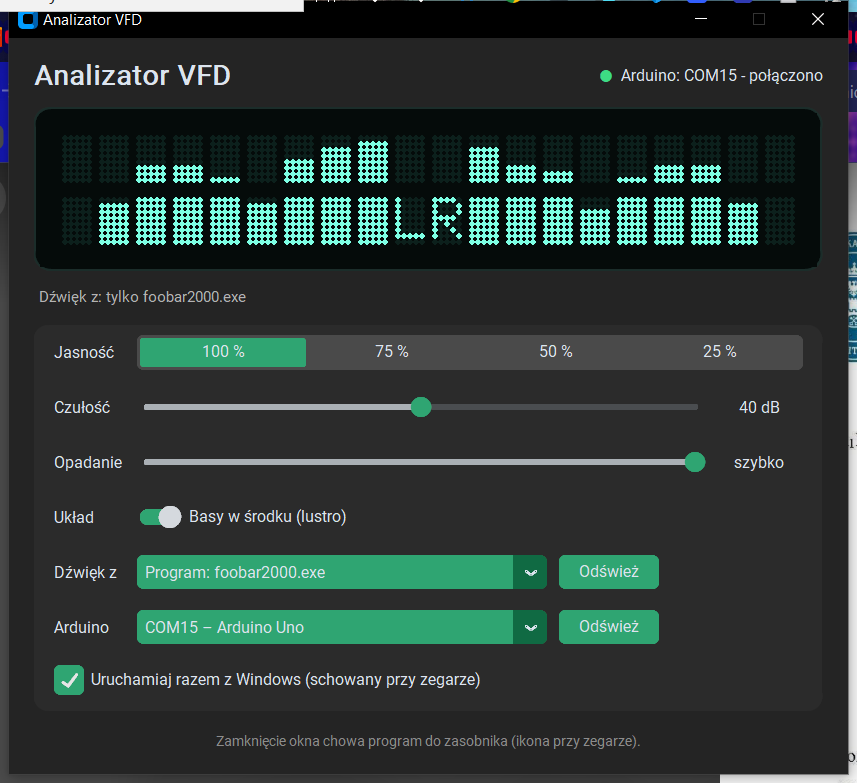
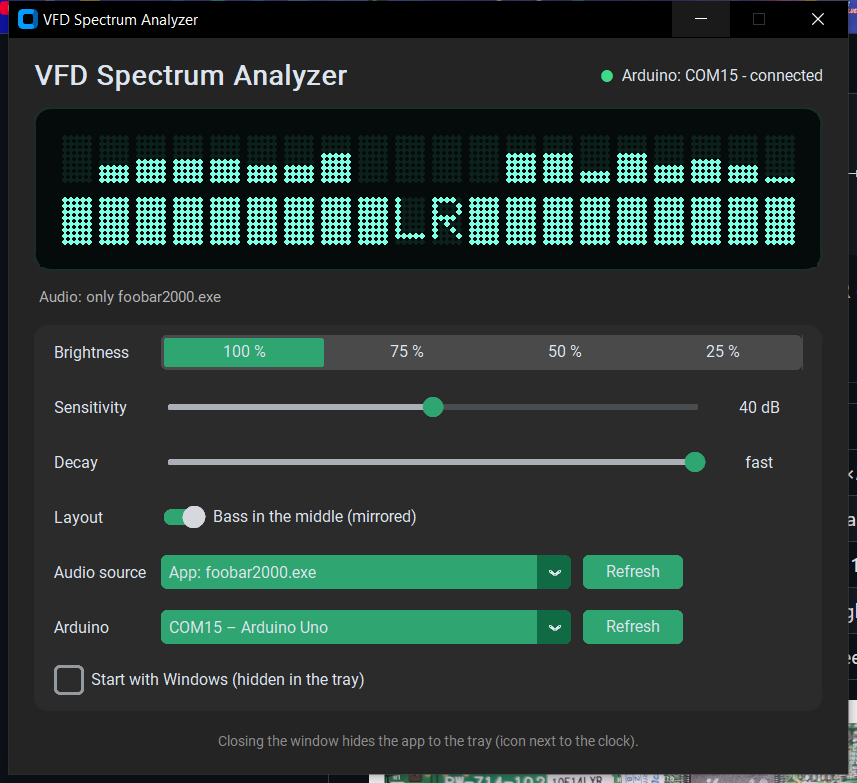
English UI, single-module stand preview, README: modular stands, drop removed files

diff --git a/pc/widmo_gui.py b/pc/widmo_gui.py
@@ -1,8 +1,8 @@
-"""Analizator VFD - okno programu.
+"""VFD Spectrum Analyzer - GUI.
 
-Instalacja:  pip install pyaudiowpatch pyserial numpy customtkinter pystray pillow
-Uruchomienie: pythonw widmo_gui.py        (--min = start schowany w zasobniku)
-Zamknięcie okna chowa program do zasobnika (ikona przy zegarze) - tam jest „Zakończ”.
+Install: pip install pyaudiowpatch pyserial numpy customtkinter pystray pillow
+Run:     pythonw widmo_gui.py        (--min = start hidden in the tray)
+Closing the window hides the app to the tray; "Quit" is in the tray icon menu.
 """
 import json, os, socket, sys
 import customtkinter as ctk
@@ -10,7 +10,7 @@ import pystray
 from PIL import Image, ImageDraw
 from silnik import APP, AUTO, DOMYSLNE, JASNOSCI, USTAWIENIA, Silnik, kolumny, lista_portow
 
-PREFIKS_APP = "Program: "     # na liście "Dźwięk z"; w ustawieniach zapisane jako "app:nazwa.exe"
+PREFIKS_APP = "App: "     # na liście "Dźwięk z"; w ustawieniach zapisane jako "app:nazwa.exe"
 
 
 def audio_na_liste(u):
@@ -23,7 +23,7 @@ def audio_z_listy(v):
 KATALOG = os.path.dirname(os.path.abspath(__file__))
 PLIK_USTAWIEN = os.path.join(KATALOG, "ustawienia.json")
 AUTOSTART = os.path.join(os.environ["APPDATA"], r"Microsoft\Windows\Start Menu\Programs\Startup",
-                         "Analizator VFD.vbs")
+                         "VFD Spectrum Analyzer.vbs")
 
 # wygląd VFD
 TLO = "#050b0a"
@@ -107,13 +107,13 @@ class Okno(ctk.CTk):
     def __init__(self, silnik, schowane):
         super().__init__()
         self.s = silnik
-        self.title("Analizator VFD")
+        self.title("VFD Spectrum Analyzer")
         self.resizable(False, False)
         self.protocol("WM_DELETE_WINDOW", self.schowaj)
 
         naglowek = ctk.CTkFrame(self, fg_color="transparent")
         naglowek.pack(fill="x", padx=20, pady=(16, 6))
-        ctk.CTkLabel(naglowek, text="Analizator VFD", font=ctk.CTkFont(size=22, weight="bold")).pack(side="left")
+        ctk.CTkLabel(naglowek, text="VFD Spectrum Analyzer", font=ctk.CTkFont(size=22, weight="bold")).pack(side="left")
         self.lbl_port = ctk.CTkLabel(naglowek, text="", font=ctk.CTkFont(size=13))
         self.lbl_port.pack(side="right")
         self.kropka_port = ctk.CTkLabel(naglowek, text="●", font=ctk.CTkFont(size=16))
@@ -135,13 +135,13 @@ class Okno(ctk.CTk):
         def etykieta(tekst):
             ctk.CTkLabel(panel, text=tekst, anchor="w").grid(row=r, column=0, sticky="w", padx=(16, 12), pady=8)
 
-        etykieta("Jasność")
+        etykieta("Brightness")
         self.jas = ctk.CTkSegmentedButton(panel, values=[f"{p} %" for p in JASNOSCI], command=self.zmien_jasnosc)
         self.jas.set(f"{JASNOSCI[self.s.u['jasnosc']]} %")
         self.jas.grid(row=r, column=1, columnspan=2, sticky="ew", padx=(0, 16))
         r += 1
 
-        etykieta("Czułość")
+        etykieta("Sensitivity")
         self.czul = ctk.CTkSlider(panel, from_=60, to=20, number_of_steps=40, command=self.zmien_czulosc)
         self.czul.set(self.s.u["zakres_db"])
         self.czul.grid(row=r, column=1, sticky="ew")
@@ -149,7 +149,7 @@ class Okno(ctk.CTk):
         self.lbl_czul.grid(row=r, column=2, padx=(8, 16))
         r += 1
 
-        etykieta("Opadanie")
+        etykieta("Decay")
         self.spad = ctk.CTkSlider(panel, from_=0.15, to=1.5, number_of_steps=27, command=self.zmien_spadek)
         self.spad.set(self.s.u["spadek"])
         self.spad.grid(row=r, column=1, sticky="ew")
@@ -157,21 +157,21 @@ class Okno(ctk.CTk):
         self.lbl_spad.grid(row=r, column=2, padx=(8, 16))
         r += 1
 
-        etykieta("Układ")
-        self.lustro = ctk.CTkSwitch(panel, text="Basy w środku (lustro)", command=self.zmien_lustro)
+        etykieta("Layout")
+        self.lustro = ctk.CTkSwitch(panel, text="Bass in the middle (mirrored)", command=self.zmien_lustro)
         if self.s.u["lustro"]:
             self.lustro.select()
         self.lustro.grid(row=r, column=1, columnspan=2, sticky="w")
         r += 1
 
-        etykieta("Dźwięk z")
+        etykieta("Audio source")
         wiersz = ctk.CTkFrame(panel, fg_color="transparent")
         wiersz.grid(row=r, column=1, columnspan=2, sticky="ew", padx=(0, 16))
         self.audio = ctk.CTkOptionMenu(wiersz, values=[DOMYSLNE], width=330, dynamic_resizing=False,
                                        command=lambda v: self.zmien(audio=audio_z_listy(v)))
         self.audio.set(audio_na_liste(self.s.u["audio"]))
         self.audio.pack(side="left")
-        ctk.CTkButton(wiersz, text="Odśwież", width=80, command=self.s.odswiez_audio).pack(side="left", padx=8)
+        ctk.CTkButton(wiersz, text="Refresh", width=80, command=self.s.odswiez_audio).pack(side="left", padx=8)
         r += 1
 
         etykieta("Arduino")
@@ -180,16 +180,16 @@ class Okno(ctk.CTk):
         self.port = ctk.CTkOptionMenu(wiersz, values=[AUTO], width=330, dynamic_resizing=False,
                                       command=lambda v: self.zmien(port=v.split(" – ")[0]))
         self.port.pack(side="left")
-        ctk.CTkButton(wiersz, text="Odśwież", width=80, command=self.odswiez_porty).pack(side="left", padx=8)
+        ctk.CTkButton(wiersz, text="Refresh", width=80, command=self.odswiez_porty).pack(side="left", padx=8)
         r += 1
 
-        self.autostart = ctk.CTkCheckBox(panel, text="Uruchamiaj razem z Windows (schowany przy zegarze)",
+        self.autostart = ctk.CTkCheckBox(panel, text="Start with Windows (hidden in the tray)",
                                          command=self.zmien_autostart)
         if os.path.exists(AUTOSTART):
             self.autostart.select()
         self.autostart.grid(row=r, column=0, columnspan=3, sticky="w", padx=16, pady=(8, 14))
 
-        ctk.CTkLabel(self, text="Zamknięcie okna chowa program do zasobnika (ikona przy zegarze).",
+        ctk.CTkLabel(self, text="Closing the window hides the app to the tray (icon next to the clock).",
                      font=ctk.CTkFont(size=11), text_color="gray55").pack(pady=(0, 12))
 
         self.odswiez_porty()
@@ -220,7 +220,7 @@ class Okno(ctk.CTk):
             self.zmien(zakres_db=v)
 
     def zmien_spadek(self, v, zapisz=True):
-        self.lbl_spad.configure(text="wolno" if v < 0.4 else "szybko" if v > 1.0 else "średnio")
+        self.lbl_spad.configure(text="slow" if v < 0.4 else "fast" if v > 1.0 else "medium")
         if zapisz:
             self.zmien(spadek=round(v, 2))
 
@@ -249,7 +249,7 @@ class Okno(ctk.CTk):
             self.vfd.pokaz(gora, dol, self.s.u["jasnosc"])
         self.kropka_port.configure(text_color="#3ddc84" if self.s.port_ok else "#e05050")
         self.lbl_port.configure(text=f"Arduino: {self.s.stan_port}")
-        self.lbl_audio.configure(text=("Dźwięk z: " if self.s.audio_ok else "Dźwięk: ") + self.s.stan_audio,
+        self.lbl_audio.configure(text="Audio: " + self.s.stan_audio,
                                  text_color="gray70" if self.s.audio_ok else "#e05050")
         self._tik = getattr(self, "_tik", 0) + 1
         if self._tik % 50 == 0:                     # co ~2 s: podpięto/odpięto płytkę?
@@ -273,12 +273,12 @@ class Okno(ctk.CTk):
                                     checked=lambda _: self.s.u["jasnosc"] == kod, radio=True)
 
         menu = pystray.Menu(
-            pystray.MenuItem("Pokaż", lambda: self.after(0, self.pokaz), default=True),
-            pystray.MenuItem("Jasność", pystray.Menu(*[jasnosc(k) for k in range(4)])),
+            pystray.MenuItem("Show", lambda: self.after(0, self.pokaz), default=True),
+            pystray.MenuItem("Brightness", pystray.Menu(*[jasnosc(k) for k in range(4)])),
             pystray.Menu.SEPARATOR,
-            pystray.MenuItem("Zakończ", lambda: self.after(0, self.zakoncz)),
+            pystray.MenuItem("Quit", lambda: self.after(0, self.zakoncz)),
         )
-        self.ikona = pystray.Icon("analizator_vfd", ikona_zasobnika(), "Analizator VFD", menu)
+        self.ikona = pystray.Icon("analizator_vfd", ikona_zasobnika(), "VFD Spectrum Analyzer", menu)
         self.ikona.run_detached()
 
     def ustaw_jasnosc(self, kod):
@@ -305,7 +305,7 @@ def main():
     try:
         blokada.bind(("127.0.0.1", 47321))
     except OSError:
-        sys.exit("Analizator VFD już działa (ikona przy zegarze).")
+        sys.exit("VFD Spectrum Analyzer is already running (tray icon).")
 
     ctk.set_appearance_mode("dark")
     ctk.set_default_color_theme("green")

diff --git a/pc/silnik.py b/pc/silnik.py
@@ -16,7 +16,7 @@ F_MIN, F_MAX = 40, 16000
 MIN_SZCZYT_DB = -45      # automatyczne wzmocnienie nie podbija ciszy ponad to
 ZAKRES_VU_DB = 30
 JASNOSCI = [100, 75, 50, 25]   # kod VFD 0..3
-DOMYSLNE = "Domyślne głośniki"
+DOMYSLNE = "Default speakers"
 AUTO = "Auto"
 APP = "app:"             # ustawienie "audio" = "app:foobar2000.exe" -> dźwięk tylko z tego programu
 APPLOOP = os.path.join(os.path.dirname(os.path.abspath(__file__)), "apploop.exe")
@@ -95,10 +95,12 @@ class Silnik:
 
     def __init__(self, ustawienia=None):
         self.u = dict(USTAWIENIA, **(ustawienia or {}))
+        if self.u["audio"] == "Domyślne głośniki":      # ustawienia ze starszej, polskiej wersji
+            self.u["audio"] = DOMYSLNE
         self.wyslane = np.zeros(2 * PASMA, int)
         self.vu = np.zeros(2, int)
-        self.stan_audio = "uruchamianie..."
-        self.stan_port = "szukam Arduino..."
+        self.stan_audio = "starting..."
+        self.stan_port = "looking for Arduino..."
         self.audio_ok = self.port_ok = False
         self.urzadzenia = []
         self.aplikacje = []          # nazwy .exe programów z dźwiękiem
@@ -148,22 +150,22 @@ class Silnik:
             bufor.callback(dane[:len(dane) // 4 * 4], 0, None, 0)
         if proces is self.proces:
             self.audio_ok = False
-            self.stan_audio = "program zamknięty - czekam..."
+            self.stan_audio = "app closed - waiting..."
             self._kolejna_audio = time.time() + 3
 
     def _otworz_aplikacje(self, nazwa, apps):
         if not os.path.exists(APPLOOP):
-            self.stan_audio = "brak apploop.exe obok silnik.py (patrz README)"
+            self.stan_audio = "apploop.exe missing next to silnik.py (see README)"
             return None
         pasujace = sorted((a for a in apps if a[1].lower() == nazwa.lower()), key=lambda a: not a[2])
         if not pasujace:
-            self.stan_audio = f"{nazwa} nie gra - czekam..."
+            self.stan_audio = f"{nazwa} not running - waiting..."
             return None
         self.bufor = Bufor(2)
         self.proces = subprocess.Popen([APPLOOP, "capture", str(pasujace[0][0])], stdout=subprocess.PIPE,
                                        stderr=subprocess.DEVNULL, creationflags=subprocess.CREATE_NO_WINDOW)
         threading.Thread(target=self._czytaj_aplikacje, args=(self.proces, self.bufor), daemon=True).start()
-        self.stan_audio = f"tylko {nazwa}"
+        self.stan_audio = f"only {nazwa}"
         return APP_RATE
 
     def _otworz_audio(self):
@@ -184,7 +186,7 @@ class Silnik:
                                    for d in self.pa.get_loopback_device_info_generator()]
                 return
         except Exception as e:
-            self.stan_audio = f"błąd: {e}"
+            self.stan_audio = f"error: {e}"
             return
         try:
             self.pa = pyaudio.PyAudio()
@@ -202,10 +204,10 @@ class Silnik:
                                        input_device_index=dev["index"], frames_per_buffer=512,
                                        stream_callback=self.bufor.callback)
         except StopIteration:
-            self.stan_audio = f"brak urządzenia: {self.u['audio']}"
+            self.stan_audio = f"device not found: {self.u['audio']}"
             return
         except Exception as e:
-            self.stan_audio = f"błąd: {e}"
+            self.stan_audio = f"error: {e}"
             return
         self._ustaw_pasma(rate)
         self.stan_audio = dev["name"].replace(" [Loopback]", "")
@@ -239,15 +241,15 @@ class Silnik:
         port = znajdz_port() if self.u["port"] == AUTO else self.u["port"]
         if not port:
             ile = sum(1 for _, o in lista_portow() if any(s in o.lower() for s in ("arduino", "ch340", "serial")))
-            self.stan_port = "kilka Arduino - wybierz port" if ile > 1 else "nie znaleziono Arduino"
+            self.stan_port = "several Arduinos - pick a port" if ile > 1 else "no Arduino found"
         else:
             try:
                 self.ser = serial.Serial(port, 115200, timeout=0, write_timeout=0.5)
                 self._gotowy_od = time.time() + 2            # Arduino restartuje się po otwarciu portu
-                self.stan_port = f"{port} - łączenie..."
+                self.stan_port = f"{port} - connecting..."
                 return
             except serial.SerialException as e:
-                self.stan_port = f"{port} zajęty" if "Access" in str(e) or "denied" in str(e) else f"{port}: błąd"
+                self.stan_port = f"{port} busy" if "Access" in str(e) or "denied" in str(e) else f"{port}: error"
         self._kolejna_proba = time.time() + 2
 
     def _wyslij(self, ramka):
@@ -258,11 +260,11 @@ class Silnik:
             self.ser.read(self.ser.in_waiting or 0)
             if not self.port_ok:
                 self.port_ok = True
-                self.stan_port = f"{self.ser.port} - połączono"
+                self.stan_port = f"{self.ser.port} - connected"
         except (serial.SerialException, OSError):
             self.ser = None
             self.port_ok = False
-            self.stan_port = "rozłączono - szukam..."
+            self.stan_port = "disconnected - searching..."
             self._kolejna_proba = time.time() + 2
 
     # --- główna pętla ---

diff --git a/pc/widmo.py b/pc/widmo.py
@@ -1,9 +1,8 @@
-"""Widmo dźwięku z głośników komputera -> VFD Noritake na Arduino (USB), wersja konsolowa.
-Wersja z oknem: widmo_gui.py
+"""VFD spectrum analyzer - console version (GUI version: widmo_gui.py).
 
-Instalacja:  pip install pyaudiowpatch pyserial numpy
-Uruchomienie: python widmo.py [--port COM15] [--jasnosc 50]
-W trakcie działania: klawisze 1-4 = jasność 100/75/50/25 %, +/- = jaśniej/ciemniej, q = koniec.
+Install: pip install pyaudiowpatch pyserial numpy
+Run:     python widmo.py [--port COM15] [--jasnosc 50]
+Keys:    1-4 = brightness 100/75/50/25 %, +/- = brighter/dimmer, q = quit
 """
 import argparse, msvcrt, sys, time
 from silnik import AUTO, JASNOSCI, PASMA, Silnik
@@ -12,13 +11,13 @@ from silnik import AUTO, JASNOSCI, PASMA, Silnik
 def main():
     ap = argparse.ArgumentParser()
     ap.add_argument("--port", default=AUTO)
-    ap.add_argument("--jasnosc", type=int, choices=JASNOSCI, default=100, help="jasność VFD w %%")
+    ap.add_argument("--jasnosc", type=int, choices=JASNOSCI, default=100, help="VFD brightness in %%")
     args = ap.parse_args()
     sys.stdout.reconfigure(encoding="utf-8")
 
     s = Silnik({"port": args.port, "jasnosc": JASNOSCI.index(args.jasnosc)})
     s.start()
-    print("Klawisze: 1-4 jasność 100/75/50/25 %, +/- jaśniej/ciemniej, q koniec\n")
+    print("Keys: 1-4 brightness 100/75/50/25 %, +/- brighter/dimmer, q quit\n")
     lin = lambda w: "".join(" ▁▂▃▄▅▆▇█"[min(v // 2, 8)] for v in w)
     try:
         while True:
@@ -36,14 +35,14 @@ def main():
                 s.ustaw(jasnosc=jas)
             w, vu = s.wyslane, s.vu
             print(f"\r{lin(w[PASMA - 1::-1])} {'L' if vu[0] else '.'}{'R' if vu[1] else '.'} {lin(w[PASMA:])}"
-                  f"  jasność {JASNOSCI[s.u['jasnosc']]:3} %  |  {s.stan_port}  |  {s.stan_audio[:30]}   ",
+                  f"  brightness {JASNOSCI[s.u['jasnosc']]:3} %  |  {s.stan_port}  |  {s.stan_audio[:30]}   ",
                   end="", flush=True)
             time.sleep(1 / 25)
     except KeyboardInterrupt:
         pass
     finally:
         s.stop()
-        print("\nKoniec.")
+        print("\nBye.")
 
 
 if __name__ == "__main__":

diff --git a/apploop/apploop.cpp b/apploop/apploop.cpp
@@ -107,7 +107,7 @@ struct Handler : IActivateAudioInterfaceCompletionHandler {
 
 static int przechwyc(DWORD pid) {
     HANDLE cel = OpenProcess(SYNCHRONIZE, FALSE, pid);
-    if (!cel) { fprintf(stderr, "brak procesu %lu\n", pid); return 2; }
+    if (!cel) { fprintf(stderr, "no such process %lu\n", pid); return 2; }
 
     AUDIOCLIENT_ACTIVATION_PARAMS ap = {};
     ap.ActivationType = ACT_PROCESS_LOOPBACK;
@@ -165,6 +165,6 @@ int main(int argc, char **argv) {
     CoInitializeEx(nullptr, COINIT_MULTITHREADED);
     if (argc >= 2 && !strcmp(argv[1], "list")) return lista();
     if (argc >= 3 && !strcmp(argv[1], "capture")) return przechwyc(strtoul(argv[2], nullptr, 10));
-    fprintf(stderr, "uzycie: apploop list | apploop capture <pid>\n");
+    fprintf(stderr, "usage: apploop list | apploop capture <pid>\n");
     return 1;
 }
